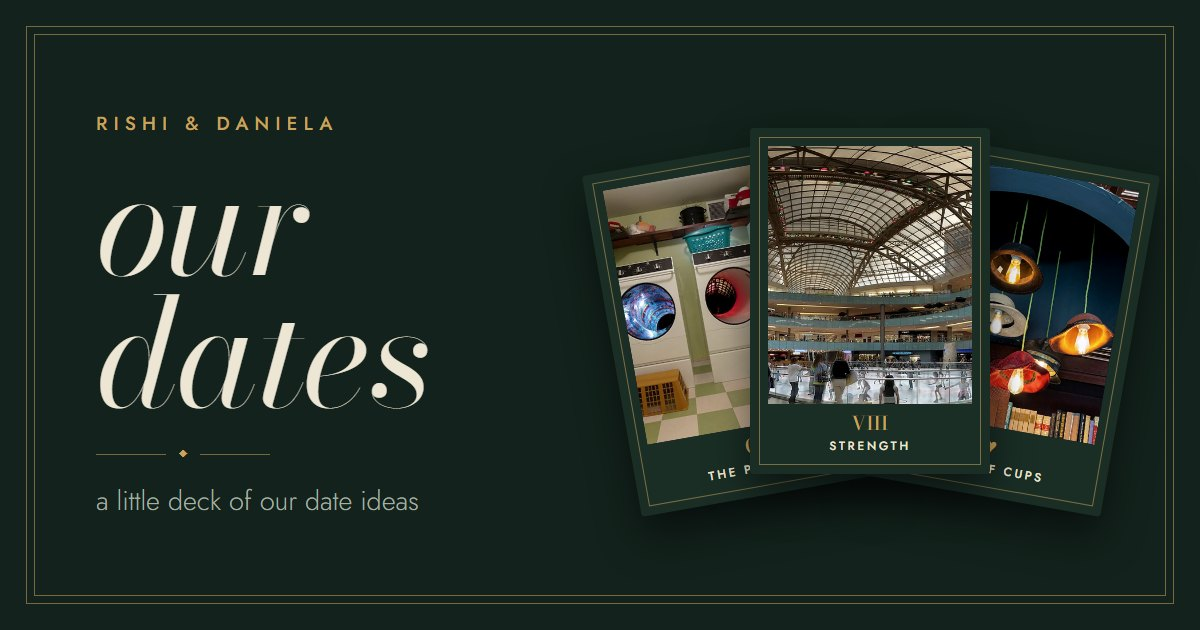
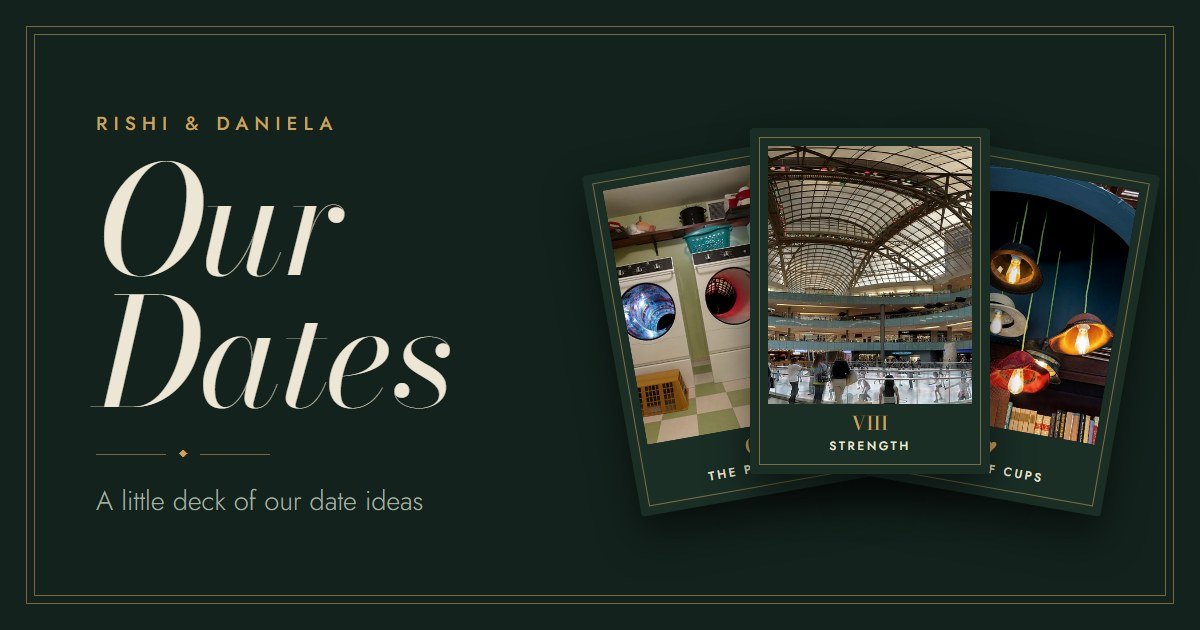
Capitalize the site's text and fix its grammar
Claude-Session: https://claude.ai/code/session_01FRag7T7nvdyjTZBqfrea4S

Changed region(s): [[0.0617, 0.2714, 0.4008, 0.6635], [0.0617, 0.7841, 0.37, 0.8143], [0.1233, 0.2413, 0.1542, 0.2714]]

diff --git a/index.html b/index.html
@@ -5,12 +5,12 @@
 <meta name="viewport" content="width=device-width,initial-scale=1,viewport-fit=cover">
 <meta name="robots" content="noindex,nofollow,noarchive,noimageindex">
 <meta name="theme-color" content="#13221C">
-<title>our dates</title>
-<meta property="og:title" content="our dates">
-<meta property="og:description" content="a little deck of our date ideas">
+<title>Our Dates</title>
+<meta property="og:title" content="Our Dates">
+<meta property="og:description" content="A little deck of our date ideas">
 <meta property="og:type" content="website">
 <meta property="og:url" content="https://rishisamirshah.github.io/so-many-dates/">
-<meta property="og:image" content="https://rishisamirshah.github.io/so-many-dates/assets/og.jpg?v=2026-11-09">
+<meta property="og:image" content="https://rishisamirshah.github.io/so-many-dates/assets/og.jpg?v=2026-11-09-caps">
 <meta property="og:image:width" content="1200">
 <meta property="og:image:height" content="630">
 <meta name="twitter:card" content="summary_large_image">
@@ -100,7 +100,7 @@ h1{font:italic 400 clamp(66px,21vw,92px)/.9 "Bodoni Moda",serif;margin-top:10px;
 .cdot[hidden]{display:none}
 .flip{cursor:pointer;outline:none}
 .flip:focus-visible .face{outline:2px solid var(--brass);outline-offset:2px}
-.tcard.next-up::after{content:"next";position:absolute;top:-10px;left:50%;z-index:3;transform:translateX(-50%) rotate(-2deg);font:600 10.5px/1 "Jost",sans-serif;letter-spacing:.22em;text-transform:uppercase;background:var(--brass);color:var(--bg);padding:5px 9px 4px}
+.tcard.next-up::after{content:"Next";position:absolute;top:-10px;left:50%;z-index:3;transform:translateX(-50%) rotate(-2deg);font:600 10.5px/1 "Jost",sans-serif;letter-spacing:.22em;text-transform:uppercase;background:var(--brass);color:var(--bg);padding:5px 9px 4px}
 .tcard.glow .face{outline:2px solid var(--brass);outline-offset:3px}
 
 /* comment buttons */
@@ -184,87 +184,87 @@ footer{text-align:center;padding-top:44px;padding-bottom:50px;color:var(--muted)
 
 <div class="top">
   <header class="hero">
-    <p class="caps">rishi &amp; daniela</p>
-    <h1>our dates</h1>
+    <p class="caps">Rishi &amp; Daniela</p>
+    <h1>Our Dates</h1>
     <div class="orn" aria-hidden="true">◆</div>
-    <p class="lede">i made us a deck. every date idea is a card. flip through them, or let the cards pick.</p>
+    <p class="lede">I made us a deck. Every date idea is a card. Flip through them, or let the cards pick.</p>
     <div class="cta">
-      <button class="btn solid" id="pull" type="button">pull a card</button>
-      <a class="btn" href="#deck">see the deck</a>
+      <button class="btn solid" id="pull" type="button">Pull a card</button>
+      <a class="btn" href="#deck">See the deck</a>
     </div>
   </header>
-  <section class="ticket" aria-label="next date">
-    <div class="stub"><span>admit two</span></div>
+  <section class="ticket" aria-label="Next date">
+    <div class="stub"><span>Admit Two</span></div>
     <div class="tmain">
-      <p class="caps">next date</p>
-      <h2 id="nextTitle">to be drawn</h2>
-      <p id="nextWhere">pull a card to pick it.</p>
+      <p class="caps">Next date</p>
+      <h2 id="nextTitle">To be drawn</h2>
+      <p id="nextWhere">Pull a card to pick it.</p>
       <div class="seen" id="seen"></div>
     </div>
   </section>
 </div>
 
 <section class="sec wrap" id="deck">
-  <p class="caps">the deck</p>
-  <h2>every date idea</h2>
-  <p class="sub">tap a card to flip it. leave a comment on the back.</p>
+  <p class="caps">The deck</p>
+  <h2>Every Date Idea</h2>
+  <p class="sub">Tap a card to flip it. Leave a comment on the back.</p>
   <div class="deck" id="deckGrid"></div>
 </section>
 
 <section class="sec wrap" id="ideas">
-  <p class="caps">ur ideas</p>
-  <h2>add a date idea</h2>
-  <p class="sub">got one? type it in. it goes straight into the deck.</p>
+  <p class="caps">Your ideas</p>
+  <h2>Add a Date Idea</h2>
+  <p class="sub">Got one? Type it in. It goes straight into the deck.</p>
   <form class="form" id="ideaForm" autocomplete="off">
-    <input class="field" id="ideaTitle" maxlength="80" placeholder="a date idea…" aria-label="a date idea">
-    <input class="field" id="ideaWhere" maxlength="80" placeholder="where or when (optional)" aria-label="where or when, optional">
-    <div class="who" role="group" aria-label="who is this from"><span>from</span><button class="chip" type="button" data-who="daniela" aria-pressed="true">daniela</button><button class="chip" type="button" data-who="rishi" aria-pressed="false">rishi</button></div>
-    <button class="btn solid" id="ideaAdd" type="submit">add it</button>
+    <input class="field" id="ideaTitle" maxlength="80" placeholder="A date idea…" aria-label="A date idea">
+    <input class="field" id="ideaWhere" maxlength="80" placeholder="Where or when (optional)" aria-label="Where or when (optional)">
+    <div class="who" role="group" aria-label="Who is this from?"><span>From</span><button class="chip" type="button" data-who="daniela" aria-pressed="true">Daniela</button><button class="chip" type="button" data-who="rishi" aria-pressed="false">Rishi</button></div>
+    <button class="btn solid" id="ideaAdd" type="submit">Add it</button>
     <p class="status" id="ideaStatus" aria-live="polite"></p>
   </form>
 </section>
 
 <section class="sec wrap" id="did">
-  <p class="caps">already did</p>
-  <h2>ones we already did</h2>
+  <p class="caps">Already done</p>
+  <h2>The Ones We've Done</h2>
   <div class="prints" id="prints"></div>
 </section>
 
 <footer class="wrap">
-  <span class="end">new cards get added whenever we think of one</span>
-  <p>made by rishi</p>
-  <details class="credits"><summary>photo credits</summary><ul id="credits"></ul></details>
+  <span class="end">A new card gets added whenever we think of one.</span>
+  <p>Made by Rishi</p>
+  <details class="credits"><summary>Photo credits</summary><ul id="credits"></ul></details>
 </footer>
 
 <div class="modal" id="modal" hidden>
-  <div class="modal-box" role="dialog" aria-modal="true" aria-label="pull a card">
-    <p class="caps">let the cards pick the next date</p>
+  <div class="modal-box" role="dialog" aria-modal="true" aria-label="Pull a card">
+    <p class="caps">Let the cards pick the next date</p>
     <div class="tcard" id="mcard">
       <div class="inner">
         <div class="face front cardback"><div class="in">
           <svg viewBox="0 0 60 60" aria-hidden="true" fill="none" stroke="#C9A45C" stroke-width="1.2"><path d="M30 4 L37 23 L56 30 L37 37 L30 56 L23 37 L4 30 L23 23 Z"/><circle cx="30" cy="30" r="9"/><circle cx="30" cy="30" r="2.2" fill="#C9A45C"/></svg>
-          <span class="caps">our dates</span>
+          <span class="caps">Our Dates</span>
         </div></div>
         <div class="face reveal" id="mreveal"></div>
       </div>
     </div>
     <p class="verdict" id="verdict" aria-live="polite"></p>
     <div class="row">
-      <button class="btn" id="again" type="button">pull again</button>
-      <button class="btn solid" id="deal" type="button">this one</button>
+      <button class="btn" id="again" type="button">Pull again</button>
+      <button class="btn solid" id="deal" type="button">This one</button>
     </div>
   </div>
 </div>
 
 <div class="sheet" id="sheet" hidden>
   <div class="sheet-box" role="dialog" aria-modal="true" aria-labelledby="sheetTitle">
-    <button class="x" id="sheetClose" type="button">close</button>
-    <p class="caps">comments</p>
+    <button class="x" id="sheetClose" type="button">Close</button>
+    <p class="caps">Comments</p>
     <h3 id="sheetTitle"></h3>
     <ul class="clist" id="clist"></ul>
-    <textarea class="field" id="ctext" rows="3" maxlength="500" placeholder="leave a comment…" aria-label="leave a comment"></textarea>
-    <div class="who" role="group" aria-label="who is this from"><span>from</span><button class="chip" type="button" data-who="daniela" aria-pressed="true">daniela</button><button class="chip" type="button" data-who="rishi" aria-pressed="false">rishi</button></div>
-    <button class="btn solid" id="cpost" type="button">post it</button>
+    <textarea class="field" id="ctext" rows="3" maxlength="500" placeholder="Leave a comment…" aria-label="Leave a comment"></textarea>
+    <div class="who" role="group" aria-label="Who is this from?"><span>From</span><button class="chip" type="button" data-who="daniela" aria-pressed="true">Daniela</button><button class="chip" type="button" data-who="rishi" aria-pressed="false">Rishi</button></div>
+    <button class="btn solid" id="cpost" type="button">Post it</button>
     <p class="status" id="cstatus" aria-live="polite"></p>
   </div>
 </div>
@@ -272,68 +272,68 @@ footer{text-align:center;padding-top:44px;padding-bottom:50px;color:var(--muted)
 <script>
 const ART_V = "2026-11-09";
 const DECK = [
-  {id:"portal",     num:"0",     name:"The Portal",         title:"Meow Wolf",                   where:"the real unreal, grapevine",                     when:"anytime"},
-  {id:"magician",   num:"I",     name:"The Magician",       title:"baking + cooking",            where:"a whole meal + dessert, together",               when:"soon"},
-  {id:"priestess",  num:"II",    name:"The High Priestess", title:"the tarot shop",              where:"a metaphysical shop. u pick my first deck",      when:"soon"},
-  {id:"empress",    num:"III",   name:"The Empress",        title:"Hudson House",                where:"dinner, dressed up",                             when:"soon"},
-  {id:"emperor",    num:"IV",    name:"The Emperor",        title:"the candy store",             where:"my candy shop",                                  when:"anytime"},
-  {id:"hierophant", num:"V",     name:"The Hierophant",     title:"tarot + one piece",           where:"u teach me tarot, i teach u one piece",          when:"anytime"},
-  {id:"lovers",     num:"VI",    name:"The Lovers",         title:"a picnic",                    where:"somewhere pretty",                               when:"a nice day"},
-  {id:"chariot",    num:"VII",   name:"The Chariot",        title:"a drive-in movie",            where:"something scary",                                when:"a cold night"},
-  {id:"strength",   num:"VIII",  name:"Strength",           title:"skating at the galleria",     where:"the rink under the big glass roof",              when:"anytime"},
-  {id:"hermit",     num:"IX",    name:"The Hermit",         title:"Barber's Bookstore",          where:"vintage bookstore, downtown fort worth",         when:"december",          draw:false},
-  {id:"wheel",      num:"X",     name:"Wheel of Fortune",   title:"our B&N games",               where:"the escape room + the horror one",               when:"next time ur over"},
-  {id:"hanged",     num:"XII",   name:"The Hanged Man",     title:"make a snowman",              where:"the first real snow",                            when:"whenever it snows", draw:false},
-  {id:"temperance", num:"XIV",   name:"Temperance",         title:"a pasta making class",        where:"at a fancy italian place",                       when:"soon"},
-  {id:"devil",      num:"XV",    name:"The Devil",          title:"The Archibald",               where:"rooftop bar + the pizza, downtown fort worth",   when:"soon"},
-  {id:"tower",      num:"XVI",   name:"The Tower",          title:"gingerbread house + cookies", where:"a realistic one",                                when:"december",          draw:false},
-  {id:"star",       num:"XVII",  name:"The Star",           title:"Christmas lights",            where:"at night",                                       when:"december",          draw:false},
-  {id:"moon",       num:"XVIII", name:"The Moon",           title:"Shutter Island",              where:"movie night",                                    when:"soon"},
-  {id:"sun",        num:"XIX",   name:"The Sun",            title:"Indian food",                 where:"panj tara, frisco",                              when:"did it nov 7",      done:true},
-  {id:"judgement",  num:"XX",    name:"Judgement",          title:"karaoke",                     where:"on my birthday",                                 when:"jan 18",            draw:false},
-  {id:"world",      num:"XXI",   name:"The World",          title:"Gaylord Christmas village",   where:"gaylord texan, grapevine",                       when:"after nov 13",      draw:false},
-  {id:"innie",      num:"XXII",  name:"The Innie",          title:"Severance",                   where:"one episode a day",                              when:"anytime"},
-  {id:"cups",       num:"♥", name:"Page of Cups",     title:"Thompson's Bookstore",        where:"the book bar next door, speakeasy downstairs",   when:"soon"},
-  {id:"pentacles",  num:"♦", name:"Eight of Pentacles", title:"lego date",                 where:"pick a set, build it together",                  when:"anytime"},
-  {id:"wands",      num:"♣", name:"Ace of Wands",     title:"the Parade of Lights",        where:"downtown fort worth",                            when:"sun, nov 22, 6 pm", draw:false}
+  {id:"portal",     num:"0",     name:"The Portal",         title:"Meow Wolf",                     where:"The Real Unreal, Grapevine",                          when:"Anytime"},
+  {id:"magician",   num:"I",     name:"The Magician",       title:"Baking and Cooking",            where:"A whole meal and dessert, together",                  when:"Soon"},
+  {id:"priestess",  num:"II",    name:"The High Priestess", title:"The Tarot Shop",                where:"A metaphysical shop where you pick my first deck",    when:"Soon"},
+  {id:"empress",    num:"III",   name:"The Empress",        title:"Hudson House",                  where:"Dinner, dressed up",                                  when:"Soon"},
+  {id:"emperor",    num:"IV",    name:"The Emperor",        title:"The Candy Store",               where:"My candy shop",                                       when:"Anytime"},
+  {id:"hierophant", num:"V",     name:"The Hierophant",     title:"Tarot and One Piece",           where:"You teach me tarot, and I teach you One Piece",       when:"Anytime"},
+  {id:"lovers",     num:"VI",    name:"The Lovers",         title:"A Picnic",                      where:"Somewhere pretty",                                    when:"On a nice day"},
+  {id:"chariot",    num:"VII",   name:"The Chariot",        title:"A Drive-In Movie",              where:"Something scary",                                     when:"On a cold night"},
+  {id:"strength",   num:"VIII",  name:"Strength",           title:"Skating at the Galleria",       where:"The rink under the big glass roof",                   when:"Anytime"},
+  {id:"hermit",     num:"IX",    name:"The Hermit",         title:"Barber's Bookstore",            where:"A vintage bookstore in downtown Fort Worth",          when:"December",          draw:false},
+  {id:"wheel",      num:"X",     name:"Wheel of Fortune",   title:"Our B&N Games",                 where:"The escape room and the horror one",                  when:"Next time you're over"},
+  {id:"hanged",     num:"XII",   name:"The Hanged Man",     title:"Make a Snowman",                where:"In the first real snow",                              when:"Whenever it snows", draw:false},
+  {id:"temperance", num:"XIV",   name:"Temperance",         title:"A Pasta-Making Class",          where:"At a fancy Italian place",                            when:"Soon"},
+  {id:"devil",      num:"XV",    name:"The Devil",          title:"The Archibald",                 where:"The rooftop bar and the pizza in downtown Fort Worth", when:"Soon"},
+  {id:"tower",      num:"XVI",   name:"The Tower",          title:"Gingerbread House and Cookies", where:"A realistic one",                                     when:"December",          draw:false},
+  {id:"star",       num:"XVII",  name:"The Star",           title:"Christmas Lights",              where:"At night",                                            when:"December",          draw:false},
+  {id:"moon",       num:"XVIII", name:"The Moon",           title:"Shutter Island",                where:"Movie night",                                         when:"Soon"},
+  {id:"sun",        num:"XIX",   name:"The Sun",            title:"Indian Food",                   where:"Panj Tara, Frisco",                                   when:"Done Nov 7",        done:true},
+  {id:"judgement",  num:"XX",    name:"Judgement",          title:"Karaoke",                       where:"On my birthday",                                      when:"Jan 18",            draw:false},
+  {id:"world",      num:"XXI",   name:"The World",          title:"Gaylord Christmas Village",     where:"Gaylord Texan, Grapevine",                            when:"After Nov 13",      draw:false},
+  {id:"innie",      num:"XXII",  name:"The Innie",          title:"Severance",                     where:"One episode a day",                                   when:"Anytime"},
+  {id:"cups",       num:"♥", name:"Page of Cups",     title:"Thompson's Bookstore",        where:"The book bar next door, with a speakeasy downstairs", when:"Soon"},
+  {id:"pentacles",  num:"♦", name:"Eight of Pentacles", title:"Lego Date",                 where:"Pick a set and build it together",               when:"Anytime"},
+  {id:"wands",      num:"♣", name:"Ace of Wands",     title:"The Parade of Lights",        where:"Downtown Fort Worth",                            when:"Sun, Nov 22, 6 PM", draw:false}
 ];
 // newest first, the order they show on the page
 const DID = [
-  {id:"nov-7-barbers", date:"nov 7",  text:"barber's bookstore", img:"assets/photos/nov7-barbers.jpg?v=2026-11-09", alt:"an aisle at barber's bookstore"},
-  {id:"nov-7-water",   date:"nov 7",  text:"the water gardens + panj tara", more:"her first indian food", img:"assets/photos/nov7-water.jpg?v=2026-11-09", alt:"the water gardens"},
-  {id:"nov-6",         date:"nov 6",  text:"book fair in the park under the stars", more:"blue bonnet circle", img:"assets/photos/nov6-park.jpg?v=2026-11-09", alt:"the garden in the middle of blue bonnet circle"},
-  {id:"oct-29",        date:"oct 29", text:"candlelight halloween classics", more:"+ ouija after", img:"assets/ouija.jpg?v=3", alt:"candles and the ouija board"},
-  {id:"oct-24",        date:"oct 24", text:"b&n + thai", more:"+ tarot + a late movie", img:"assets/photos/oct24-padthai.jpg?v=2026-11-09", alt:"a plate of pad thai"},
-  {id:"oct-17",        date:"oct 17", text:"halloween store + tinies", img:"assets/photos/oct17-tinies.jpg?v=2026-11-09", alt:"a chile relleno at tinies"},
-  {id:"oct-15",        date:"oct 15", text:"the first one"}
+  {id:"nov-7-barbers", date:"Nov 7",  text:"Barber's Bookstore", img:"assets/photos/nov7-barbers.jpg?v=2026-11-09", alt:"An aisle at Barber's Bookstore"},
+  {id:"nov-7-water",   date:"Nov 7",  text:"The Water Gardens and Panj Tara", more:"Her first Indian food", img:"assets/photos/nov7-water.jpg?v=2026-11-09", alt:"The Water Gardens"},
+  {id:"nov-6",         date:"Nov 6",  text:"Book Fair in the Park Under the Stars", more:"Blue Bonnet Circle", img:"assets/photos/nov6-park.jpg?v=2026-11-09", alt:"The garden in the middle of Blue Bonnet Circle"},
+  {id:"oct-29",        date:"Oct 29", text:"Candlelight Halloween Classics", more:"Plus Ouija afterward", img:"assets/ouija.jpg?v=3", alt:"Candles and the Ouija board"},
+  {id:"oct-24",        date:"Oct 24", text:"B&N and Thai Food", more:"Plus tarot and a late movie", img:"assets/photos/oct24-padthai.jpg?v=2026-11-09", alt:"A plate of pad thai"},
+  {id:"oct-17",        date:"Oct 17", text:"A Halloween Store and Tinies", img:"assets/photos/oct17-tinies.jpg?v=2026-11-09", alt:"A chile relleno at Tinies"},
+  {id:"oct-15",        date:"Oct 15", text:"The First One"}
 ];
 const CREDITS = [
   ["Meow Wolf", "ObscuraNomad, CC BY 4.0", "https://commons.wikimedia.org/wiki/File:Grapevine_Meow_Wolf_Washer_and_Dryer_The_Real_Unreal.jpg"],
-  ["cookies", "Infrogmation of New Orleans, CC BY-SA 4.0", "https://commons.wikimedia.org/wiki/File:Cherry_chocolate_chip_cookies_on_a_baking_sheet.jpg"],
-  ["tarot spread", "Nosferattus, CC0", "https://commons.wikimedia.org/wiki/File:Tarot_cards_-_3_card_spread_with_candles.jpg"],
+  ["Cookies", "Infrogmation of New Orleans, CC BY-SA 4.0", "https://commons.wikimedia.org/wiki/File:Cherry_chocolate_chip_cookies_on_a_baking_sheet.jpg"],
+  ["Tarot spread", "Nosferattus, CC0", "https://commons.wikimedia.org/wiki/File:Tarot_cards_-_3_card_spread_with_candles.jpg"],
   ["Hudson House", "hudsonhouse.com", "https://www.hudsonhouse.com/"],
-  ["sweet shop", "Malcolmxl5, CC0", "https://commons.wikimedia.org/wiki/File:The_Shambles_Sweet_Shop_York_Jun25.jpg"],
+  ["Sweet shop", "Malcolmxl5, CC0", "https://commons.wikimedia.org/wiki/File:The_Shambles_Sweet_Shop_York_Jun25.jpg"],
   ["The Hierophant card", "Pamela Colman Smith, 1909, public domain", "https://commons.wikimedia.org/wiki/File:RWS_Tarot_05_Hierophant.jpg"],
-  ["picnic basket", "Jeremy Noble, CC BY 2.0", "https://commons.wikimedia.org/wiki/File:Picnic_basket_01.jpg"],
-  ["drive-in", "John Margolies, Library of Congress, no known restrictions", "https://commons.wikimedia.org/wiki/File:The_Gay_90_Drive-in_Theater,_Route_90,_Del_Rio,_Texas_(LOC).jpg"],
+  ["Picnic basket", "Jeremy Noble, CC BY 2.0", "https://commons.wikimedia.org/wiki/File:Picnic_basket_01.jpg"],
+  ["Drive-in", "John Margolies, Library of Congress, no known restrictions", "https://commons.wikimedia.org/wiki/File:The_Gay_90_Drive-in_Theater,_Route_90,_Del_Rio,_Texas_(LOC).jpg"],
   ["Galleria ice rink", "David Leo Veksler, CC BY 2.0", "https://commons.wikimedia.org/wiki/File:Ice_rink_in_the_Galleria_Dallas_(3478241581).jpg"],
   ["Barber's Book Store", "Michael Barera, CC BY-SA 4.0", "https://commons.wikimedia.org/wiki/File:Fort_Worth_June_2016_21_(Barber%27s_Book_Store).jpg"],
   ["Barnes & Noble", "NeoBatfreak, CC BY-SA 4.0", "https://commons.wikimedia.org/wiki/File:Barnes_%26_Noble_Bookseller_(Fresno,_Ca)_interior.jpg"],
-  ["snowman", "Terry.grignon, CC0", "https://commons.wikimedia.org/wiki/File:Snowman_on_a_foggy_day.jpg"],
-  ["fresh pasta", "Davide Ragusa, CC0", "https://commons.wikimedia.org/wiki/File:Homemade_fresh_pasta_(spaghetti)_by_Camille_(Unsplash).jpg"],
+  ["Snowman", "Terry.grignon, CC0", "https://commons.wikimedia.org/wiki/File:Snowman_on_a_foggy_day.jpg"],
+  ["Fresh pasta", "Davide Ragusa, CC0", "https://commons.wikimedia.org/wiki/File:Homemade_fresh_pasta_(spaghetti)_by_Camille_(Unsplash).jpg"],
   ["The Archibald", "the-archibald.com", "https://the-archibald.com/"],
-  ["gingerbread house", "Thegreatmutata, CC BY 4.0", "https://commons.wikimedia.org/wiki/File:Gingerbread_house_with_candy.jpg"],
+  ["Gingerbread house", "Thegreatmutata, CC BY 4.0", "https://commons.wikimedia.org/wiki/File:Gingerbread_house_with_candy.jpg"],
   ["Christmas lights", "Anthony92931, CC BY-SA 3.0", "https://commons.wikimedia.org/wiki/File:Christmas_Lights_house_display.JPG"],
   ["Medfield State Hospital", "Ghostfacesouthshore, CC BY-SA 3.0", "https://commons.wikimedia.org/wiki/File:Medfield_State_Hospital.jpg"],
   ["Panj Tara", "panjtaratx.com", "https://www.panjtaratx.com/"],
-  ["karaoke", "Martín Vasco, CC BY-SA 4.0", "https://commons.wikimedia.org/wiki/File:Karaoke_singer_at_Cuna_de_Artistas,_Loja.jpg"],
+  ["Karaoke", "Martín Vasco, CC BY-SA 4.0", "https://commons.wikimedia.org/wiki/File:Karaoke_singer_at_Cuna_de_Artistas,_Loja.jpg"],
   ["Gaylord Texan", "Larry D. Moore, CC BY 4.0", "https://commons.wikimedia.org/wiki/File:Gaylord_texan_2009.jpg"],
   ["Bell Labs Holmdel", "Acroterion, CC BY-SA 4.0", "https://commons.wikimedia.org/wiki/File:Bell_Labs_NJ1.jpg"],
   ["Thompson's Bookstore", "thompsons-bookstore.com", "https://thompsons-bookstore.com/"],
-  ["lego build", "InSapphoWeTrust, CC BY-SA 2.0", "https://commons.wikimedia.org/wiki/File:Lego_Modular_-_Set_10224_Town_Hall_(8310512787).jpg"],
+  ["Lego build", "InSapphoWeTrust, CC BY-SA 2.0", "https://commons.wikimedia.org/wiki/File:Lego_Modular_-_Set_10224_Town_Hall_(8310512787).jpg"],
   ["Parade of Lights", "fortworthparadeoflights.org", "https://fortworthparadeoflights.org/"],
   ["Blue Bonnet Circle", "City of Fort Worth", "https://fortworthtexas.gov/departments/parks/parks-and-trails/blue-bonnet-circle"],
-  ["pad thai", "Andy Li, CC0", "https://commons.wikimedia.org/wiki/File:Pad_Thai_Noodles_-_Little_Thai,_Brighton_2024-03-21.jpg"],
+  ["Pad thai", "Andy Li, CC0", "https://commons.wikimedia.org/wiki/File:Pad_Thai_Noodles_-_Little_Thai,_Brighton_2024-03-21.jpg"],
   ["Tinies", "tiniesfw.com", "https://www.tiniesfw.com/"]
 ];
 const POOL = DECK.filter(c => c.draw !== false && !c.done);
@@ -344,7 +344,7 @@ const reduce = matchMedia("(prefers-reduced-motion: reduce)").matches;
 const art = id => `assets/cards/${id}.webp?v=${ART_V}`;
 const TITLE = new Map();
 const BUBBLE = '<svg viewBox="0 0 12 12" width="10" height="10" aria-hidden="true"><path fill="currentColor" d="M1 1.5h10v7H5.2L2.6 11V8.5H1z"/></svg>';
-const commentBtn = (id, strip) => `<button class="cbtn${strip ? " strip" : ""}" type="button" data-on="${esc(id)}">comment</button>`;
+const commentBtn = (id, strip) => `<button class="cbtn${strip ? " strip" : ""}" type="button" data-on="${esc(id)}">Comment</button>`;
 
 const frontHTML = (c, lazy) =>
   `<div class="in"><div class="ph"><img src="${art(c.id)}" alt="" ${lazy ? 'loading="lazy" ' : ""}decoding="async">` +
@@ -382,7 +382,7 @@ DECK.forEach(c => {
   el.id = "card-" + c.id;
   el.tabIndex = 0;
   el.setAttribute("role", "button");
-  el.setAttribute("aria-label", `${c.name}: ${c.title}. tap to flip`);
+  el.setAttribute("aria-label", `${c.name}: ${c.title}. Tap to flip.`);
   el.innerHTML = `<div class="inner"><div class="face front">${frontHTML(c, true)}</div><div class="face back">${backHTML(c)}</div></div>`;
   el.querySelector(".front .ph").insertAdjacentHTML("beforeend", `<span class="cdot" data-on="${esc(c.id)}" hidden>${BUBBLE}<b>0</b></span>`);
   wireFlip(el);
@@ -408,11 +408,11 @@ DID.forEach(d => {
 artFallback(document);
 
 $("#credits").innerHTML = CREDITS.map(([what, who, url]) => `<li>${esc(what)}: <a href="${url}" rel="noopener">${esc(who)}</a></li>`).join("") +
-  "<li>wikimedia photos are cropped to fit the cards.</li>";
+  "<li>Wikimedia photos are cropped to fit the cards.</li>";
 
 function setNext(c) {
-  $("#nextTitle").textContent = c ? c.title : "to be drawn";
-  $("#nextWhere").textContent = c ? (c.where || "") : "pull a card to pick it.";
+  $("#nextTitle").textContent = c ? c.title : "To be drawn";
+  $("#nextWhere").textContent = c ? (c.where || "") : "Pull a card to pick it.";
   document.querySelectorAll(".tcard.next-up").forEach(e => e.classList.remove("next-up"));
   if (c) document.getElementById("card-" + c.id)?.classList.add("next-up");
 }
@@ -456,7 +456,7 @@ function savePick(c) {
     headers: {"Content-Type": "application/json"},
     body: JSON.stringify({fields: {card: {stringValue: c.id}}})
   }).then(r => { if (!r.ok) throw new Error(r.status); })
-    .catch(() => { $("#nextWhere").textContent = "that didn't save, pull again."; });
+    .catch(() => { $("#nextWhere").textContent = "That didn't save. Pull again."; });
 }
 
 let who = "daniela";
@@ -487,14 +487,14 @@ function keepComment(d) {
 }
 const shortDate = iso => {
   const d = new Date(iso);
-  return isNaN(d) ? "" : d.toLocaleDateString("en-US", {month: "short", day: "numeric"}).toLowerCase();
+  return isNaN(d) ? "" : d.toLocaleDateString("en-US", {month: "short", day: "numeric"});
 };
 function showCounts() {
   const n = {};
   COMMENTS.forEach(c => { n[c.on] = (n[c.on] || 0) + 1; });
   document.querySelectorAll(".cbtn").forEach(b => {
     const k = n[b.dataset.on] || 0;
-    b.textContent = k ? `${k} comment${k > 1 ? "s" : ""}` : "comment";
+    b.textContent = k ? `${k} comment${k > 1 ? "s" : ""}` : "Comment";
   });
   document.querySelectorAll(".cdot").forEach(d => {
     const k = n[d.dataset.on] || 0;
@@ -506,8 +506,8 @@ function showComments() {
   if (!sheetOn) return;
   const list = [...COMMENTS.values()].filter(c => c.on === sheetOn).sort((a, b) => a.at.localeCompare(b.at));
   $("#clist").innerHTML = list.length
-    ? list.map(c => `<li><p class="chead">${esc(c.who)}${shortDate(c.at) ? " · " + esc(shortDate(c.at)) : ""}</p><p class="ctext">${esc(c.text)}</p></li>`).join("")
-    : '<li class="none">no comments yet.</li>';
+    ? list.map(c => `<li><p class="chead">${c.who === "rishi" ? "Rishi" : "Daniela"}${shortDate(c.at) ? " · " + esc(shortDate(c.at)) : ""}</p><p class="ctext">${esc(c.text)}</p></li>`).join("")
+    : '<li class="none">No comments yet.</li>';
 }
 async function loadComments() {
   try {
@@ -557,7 +557,7 @@ $("#cpost").addEventListener("click", async () => {
     showCounts();
     showComments();
   } catch (e) {
-    setStatus($("#cstatus"), "that didn't post. try again.", true);
+    setStatus($("#cstatus"), "That didn't post. Try again.", true);
   }
   post.disabled = false;
 });
@@ -568,7 +568,7 @@ function readIdea(d) {
   const f = d.fields || {};
   if (!f.title?.stringValue) return null;
   const by = f.who?.stringValue === "rishi" ? "rishi" : "daniela";
-  return {id: d.name.split("/").pop(), idea: true, num: "✦", name: by === "rishi" ? "his idea" : "her idea", title: f.title.stringValue, where: f.where?.stringValue || "", at: f.at?.stringValue || ""};
+  return {id: d.name.split("/").pop(), idea: true, num: "✦", name: by === "rishi" ? "His idea" : "Her idea", title: f.title.stringValue, where: f.where?.stringValue || "", at: f.at?.stringValue || ""};
 }
 function putIdea(c) {
   if (IDEAS.has(c.id)) return document.getElementById("card-" + c.id);
@@ -609,10 +609,10 @@ $("#ideaForm").addEventListener("submit", async e => {
     showCounts();
     $("#ideaTitle").value = "";
     $("#ideaWhere").value = "";
-    setStatus($("#ideaStatus"), "added. it's in the deck now.");
+    setStatus($("#ideaStatus"), "Added. It's in the deck now.");
     glow(el);
   } catch (err) {
-    setStatus($("#ideaStatus"), "that didn't save. try again.", true);
+    setStatus($("#ideaStatus"), "That didn't save. Try again.", true);
   }
   add.disabled = false;
 });
@@ -625,7 +625,7 @@ async function loadAll() {
 loadAll();
 
 // an old tab left open picks up new versions when she comes back to it, unless she's mid-comment
-const BUILD = "2026-11-09-pics";
+const BUILD = "2026-11-09-caps";
 const busy = () => !$("#modal").hidden || !sheet.hidden || $("#ideaTitle").value.trim() || $("#ideaWhere").value.trim() || Object.values(drafts).some(v => v.trim());
 function checkVersion() {
   fetch("version.txt?t=" + Date.now(), {cache: "no-store"})
